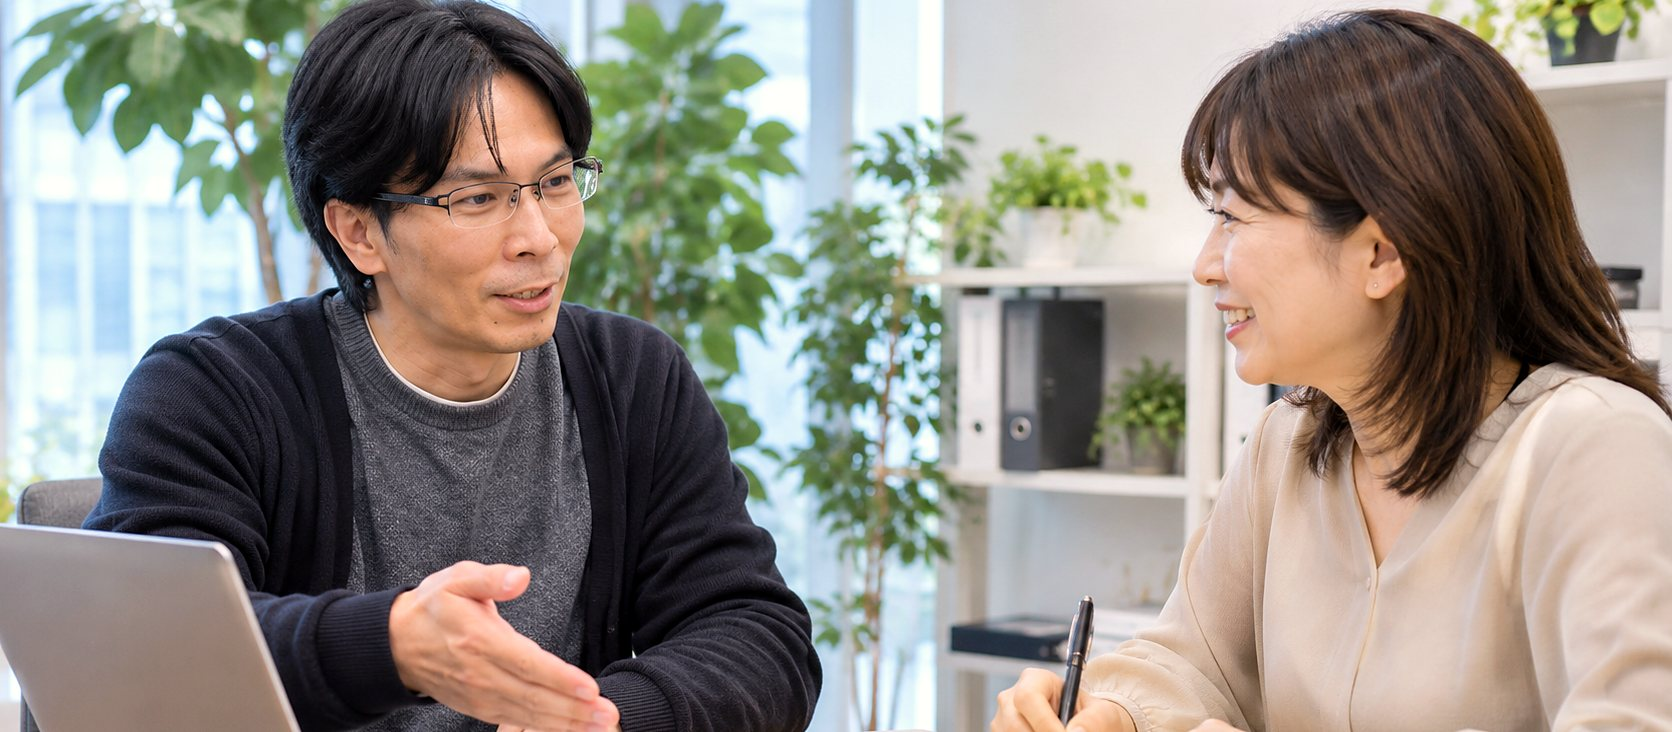
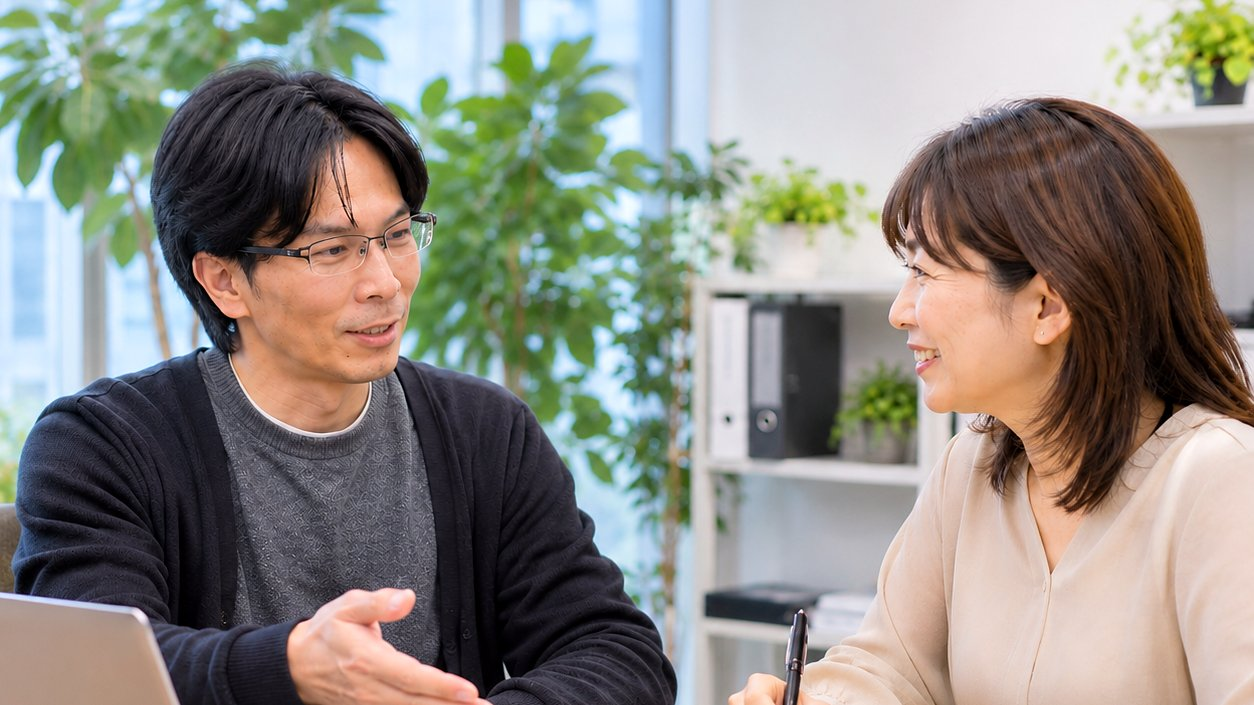
トップ: 開設サポートの写真を、新しくいただいた相談風景の写真に差し替え
Claude-Session: https://claude.ai/code/session_01MMpVg41VBWhcxt3rPCWbNr

diff --git a/index.html b/index.html
@@ -46,7 +46,7 @@
 <link rel="preconnect" href="https://fonts.gstatic.com" crossorigin>
 <link href="https://fonts.googleapis.com/css2?family=Caveat:wght@500;600&family=Noto+Sans+JP:wght@400;500;700;800&display=swap" rel="stylesheet">
 <link rel="stylesheet" href="assets/css/style.css?v=20260930-1">
-<link rel="stylesheet" href="assets/css/home-v2.css?v=20261116-7">
+<link rel="stylesheet" href="assets/css/home-v2.css?v=20261116-8">
 <script src="assets/js/ga4.js"></script>
 </head>
 <body class="home2">
@@ -163,7 +163,7 @@
         <div class="h2-col h2-col--before reveal">
           <p class="h2-col-label"><span>開所前</span>これから始める</p>
           <a href="startup-support.html" class="h2-start">
-            <span class="h2-start-photo"><img src="assets/images/home/home-startup-photo.jpg" alt="相談員が、パソコンを見ながら事業所の開設について説明し、担当の方がメモを取っている相談の様子" width="1672" height="731" loading="lazy"></span>
+            <span class="h2-start-photo"><img src="assets/images/home/home-startup-photo.jpg" alt="相談員が、パソコンを見ながら事業所の開設について説明し、担当の方がメモを取っている相談の様子" width="1254" height="705" loading="lazy"></span>
             <span class="h2-start-body">
               <span class="h2-start-tag">NEW ｜ いちばんのおすすめ</span>
               <span class="h2-start-title">福祉事業所等の<span class="no-break">開設サポート</span></span>
@@ -596,6 +596,6 @@
 </footer>
 
 <script src="assets/js/main.js"></script>
-<script src="assets/js/home-v2.js?v=20261116-7"></script>
+<script src="assets/js/home-v2.js?v=20261116-8"></script>
 </body>
 </html>

diff --git a/assets/css/home-v2.css b/assets/css/home-v2.css
@@ -274,8 +274,8 @@ a:hover > * > .h2-arrow-link {
   transition: transform var(--transition), box-shadow var(--transition);
 }
 .h2-start:hover { transform: translateY(-3px); box-shadow: 0 20px 36px rgba(31, 77, 60, 0.24); }
-.h2-start-photo { display: block; aspect-ratio: 16 / 7; overflow: hidden; }
-.h2-start-photo img { width: 100%; height: 100%; object-fit: cover; object-position: 50% 30%; transition: transform 0.8s ease; }
+.h2-start-photo { display: block; aspect-ratio: 16 / 9; overflow: hidden; }
+.h2-start-photo img { width: 100%; height: 100%; object-fit: cover; object-position: 50% 40%; transition: transform 0.8s ease; }
 .h2-start:hover .h2-start-photo img { transform: scale(1.04); }
 .h2-start-body { display: flex; flex-direction: column; gap: 6px; padding: 16px 20px 18px; }
 .h2-start-tag {
@@ -968,6 +968,6 @@ a:hover > * > .h2-arrow-link {
 
 /* スマホでは開設サポートの写真を少し縦長にして、お二人の表情が見えるように */
 @media (max-width: 600px) {
-  .h2-start-photo { aspect-ratio: 16 / 10; }
-  .h2-start-photo img { object-position: 38% 20%; }
+  .h2-start-photo { aspect-ratio: 16 / 11; }
+  .h2-start-photo img { object-position: 40% 40%; }
 }

diff --git a/works.html b/works.html
@@ -26,7 +26,7 @@
 <link rel="preconnect" href="https://fonts.gstatic.com" crossorigin>
 <link href="https://fonts.googleapis.com/css2?family=Caveat:wght@500;600&family=Noto+Sans+JP:wght@400;500;700;800&display=swap" rel="stylesheet">
 <link rel="stylesheet" href="assets/css/style.css">
-<link rel="stylesheet" href="assets/css/home-v2.css?v=20261116-7">
+<link rel="stylesheet" href="assets/css/home-v2.css?v=20261116-8">
 <script src="assets/js/ga4.js"></script>
 </head>
 <body>
